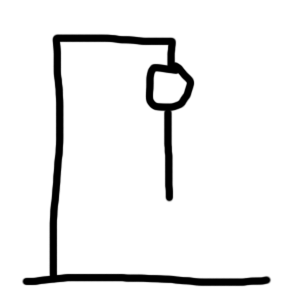
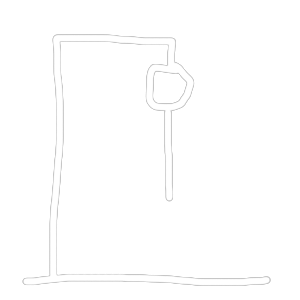
New blue theme + assets

Changed region(s): [[0.06, 0.09, 0.9, 0.96]]

diff --git a/Hangman/ViewController.swift b/Hangman/ViewController.swift
@@ -59,7 +59,7 @@ class ViewController: UIViewController {
         for element in hangmanView.subviews{
             if let button = element as? UIButton{
                 button.enabled = true
-                button.backgroundColor = UIColor(red: 0.9, green: 0.9, blue: 0.9, alpha: 1)
+                button.backgroundColor = UIColor(red: 1, green: 1, blue: 1, alpha: 0.14)
             }
         }
         winText.hidden = true
@@ -74,7 +74,7 @@ class ViewController: UIViewController {
         guessedLetters.append(letter)
         updateWordView()
         sender.enabled = false
-        sender.backgroundColor = UIColor(red: 0.96, green: 0.96, blue: 0.96, alpha: 1)
+        sender.backgroundColor = UIColor(red: 1, green: 1, blue: 1, alpha: 0)
         
         var chars = Array(word)
         var contains = false
